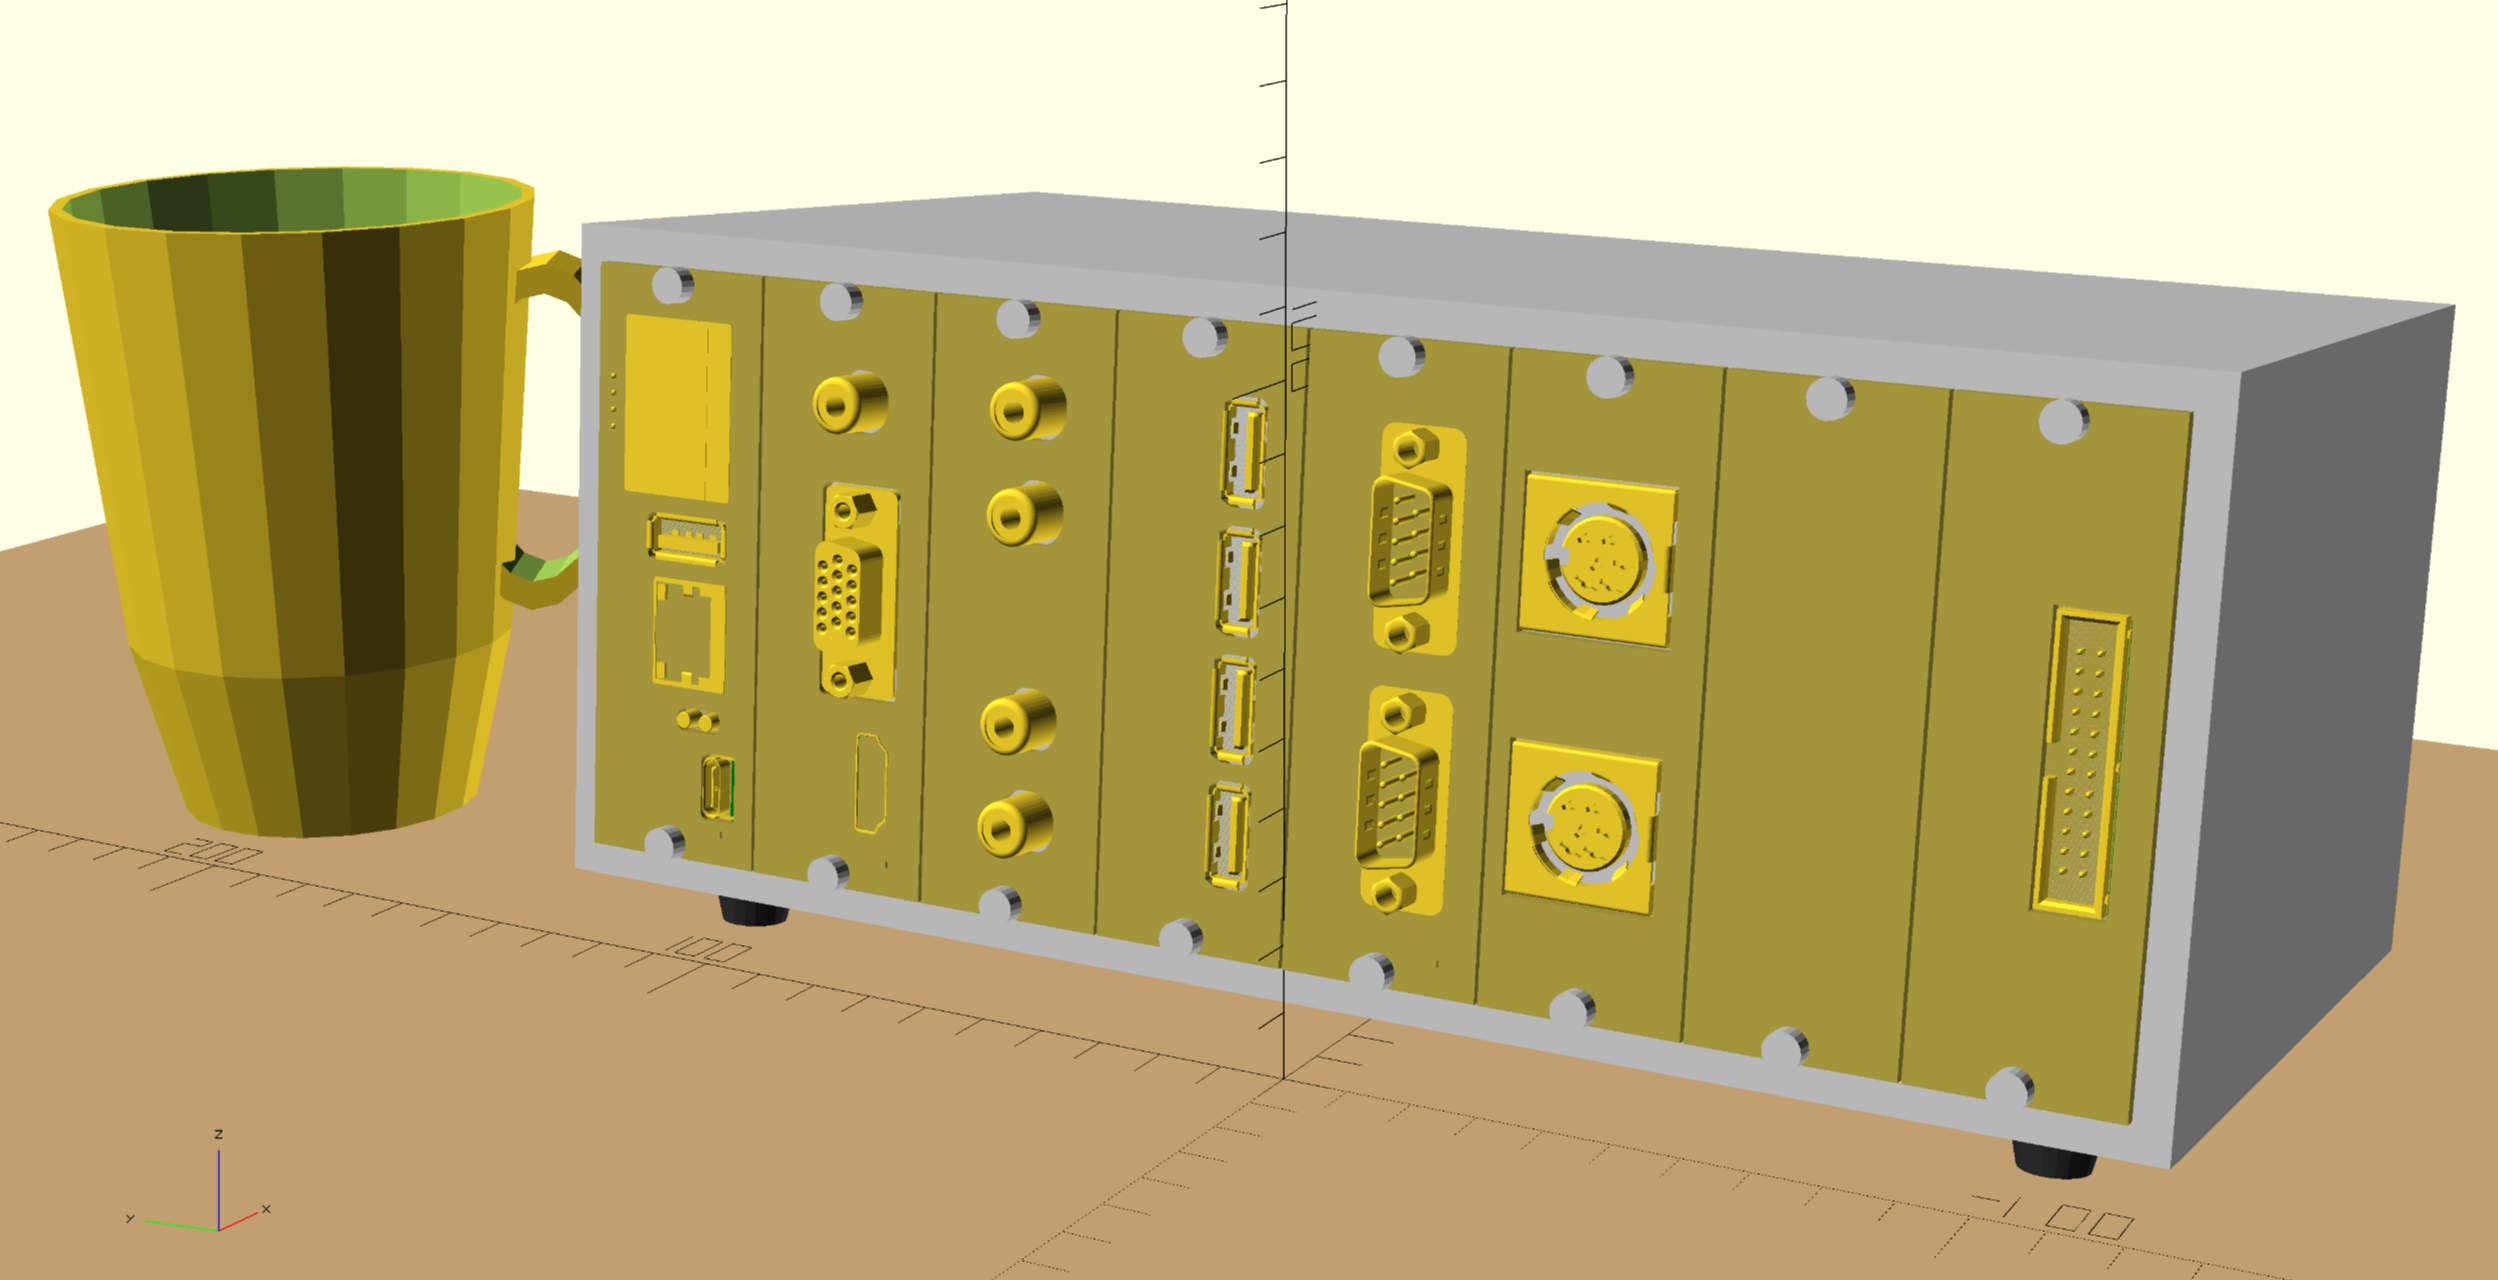
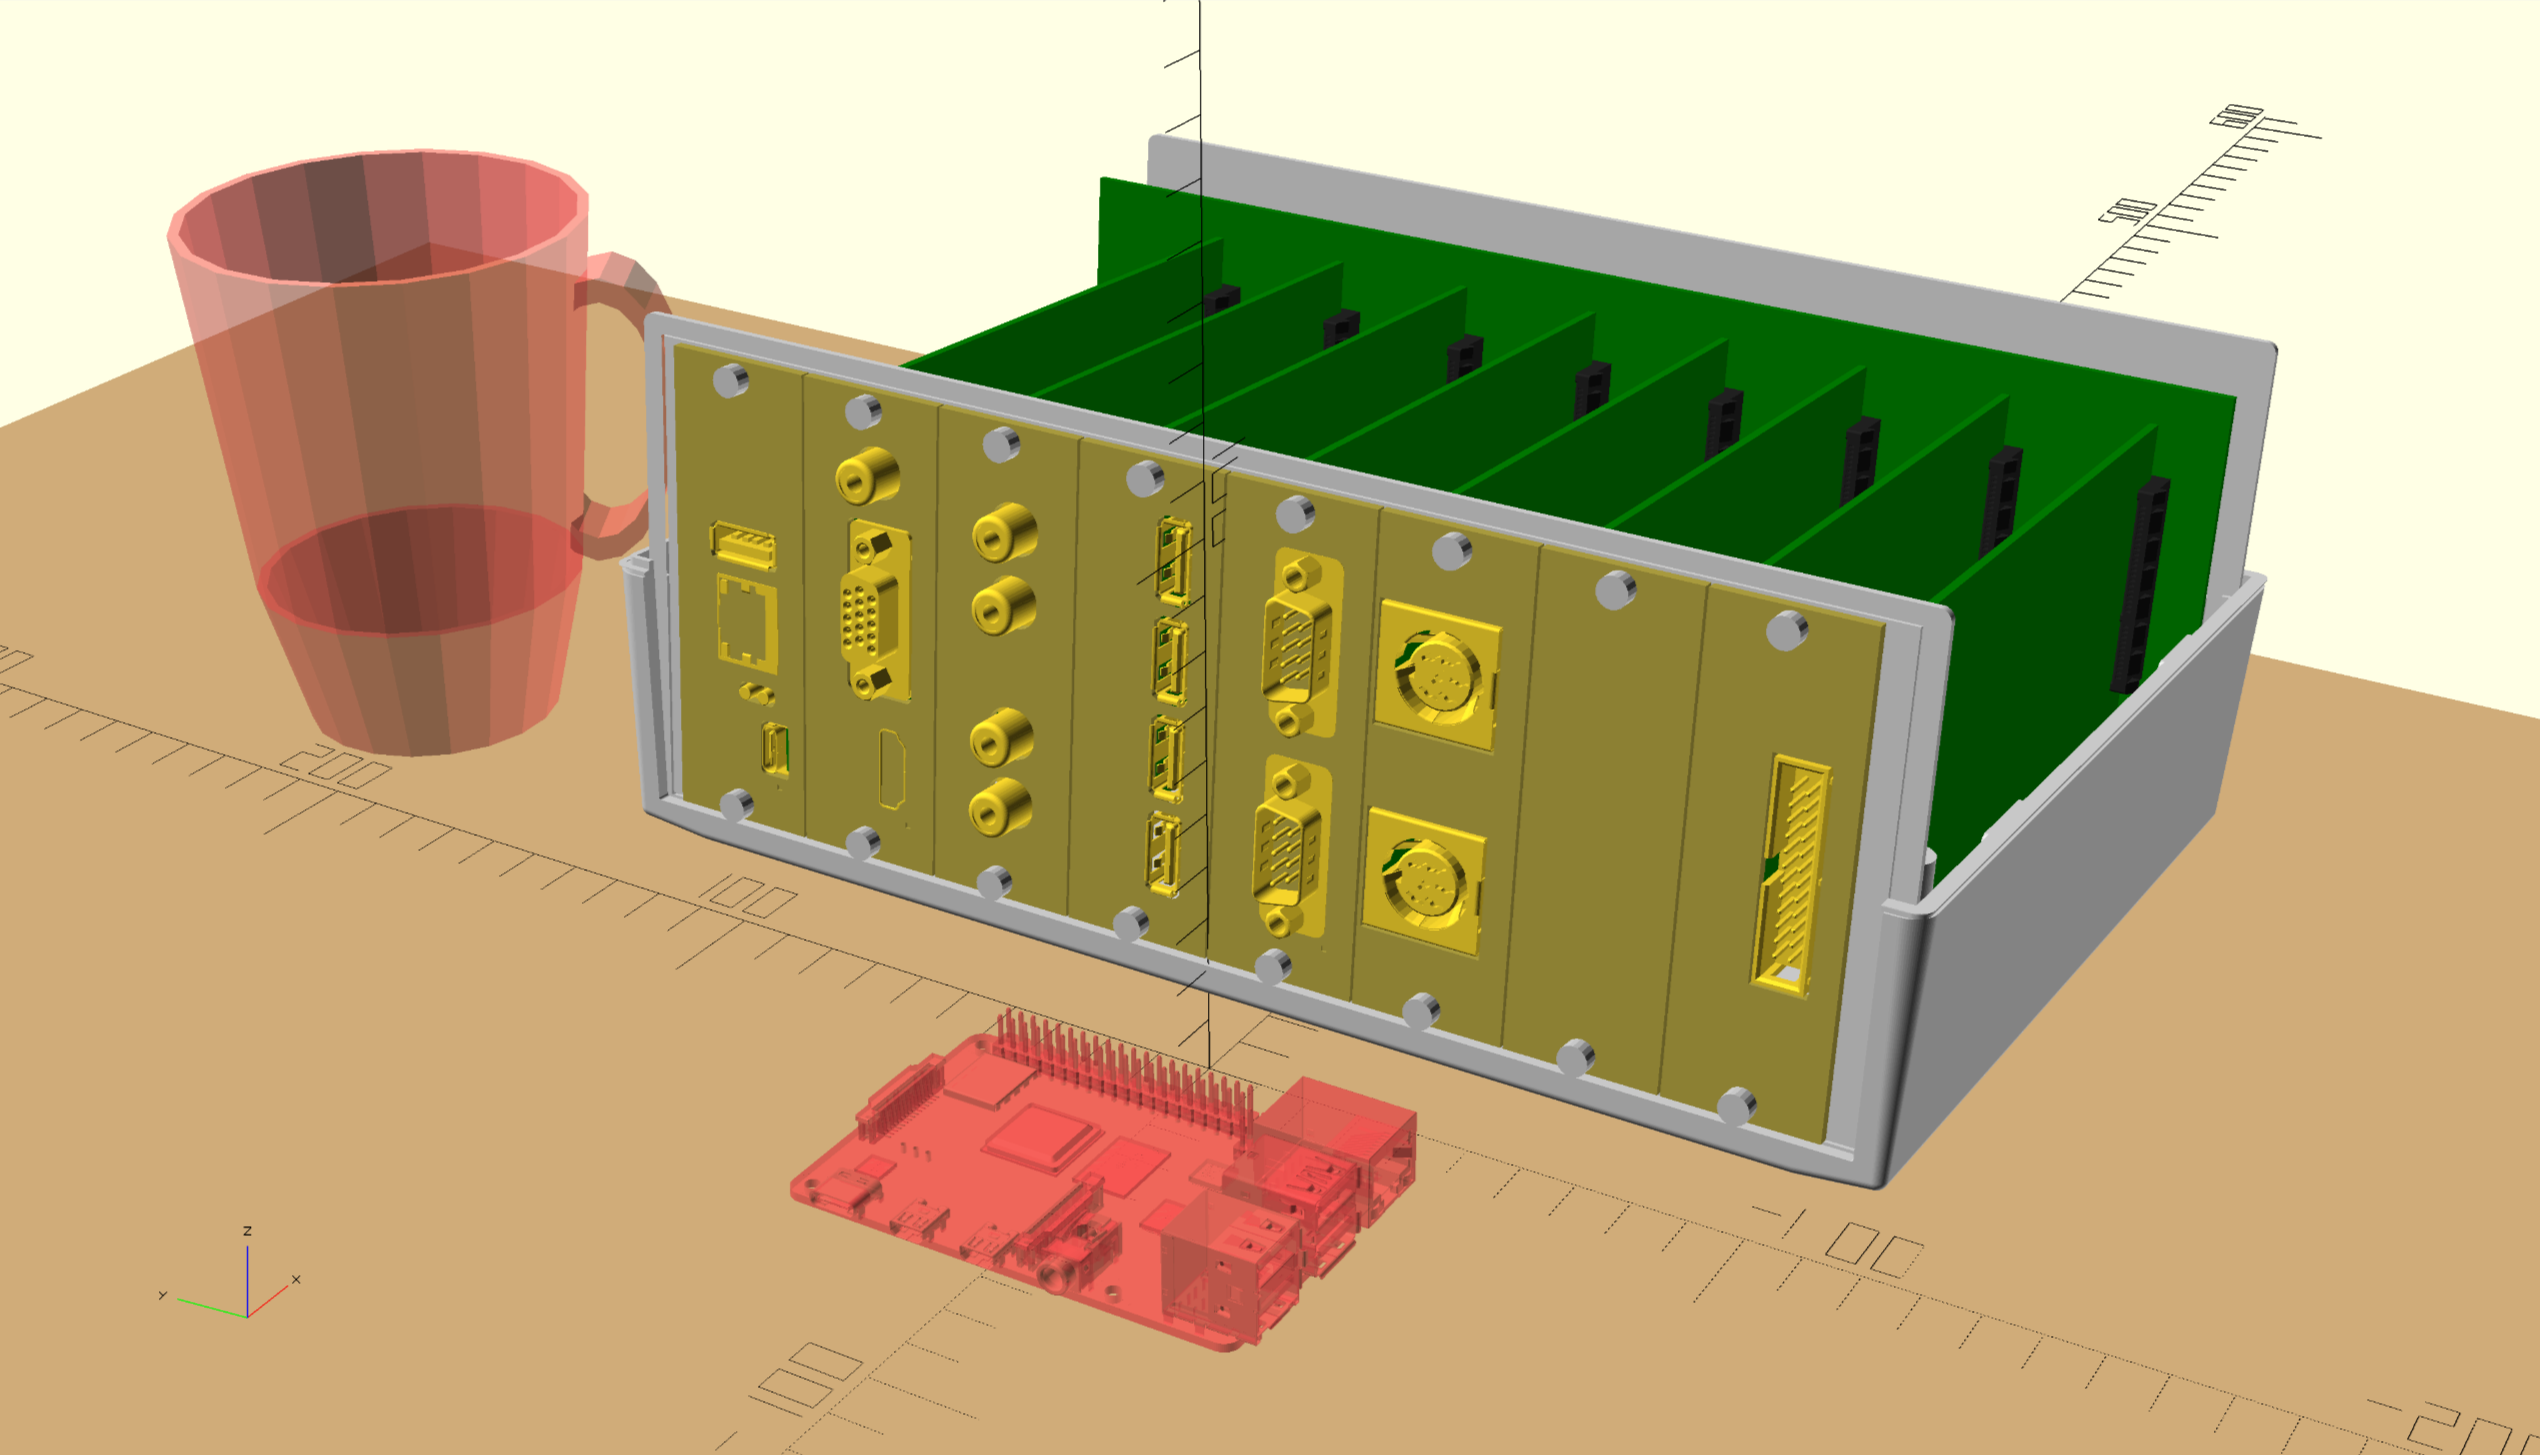
updates case screenshot.

diff --git a/Hardware/Case-Experiments/README.md b/Hardware/Case-Experiments/README.md
@@ -1,0 +1,3 @@
+# Case
+
+Using [RM2095L](https://www.hammfg.com/electronics/small-case/plastic/rm2) from Hammond as a case sounds like a good idea.
